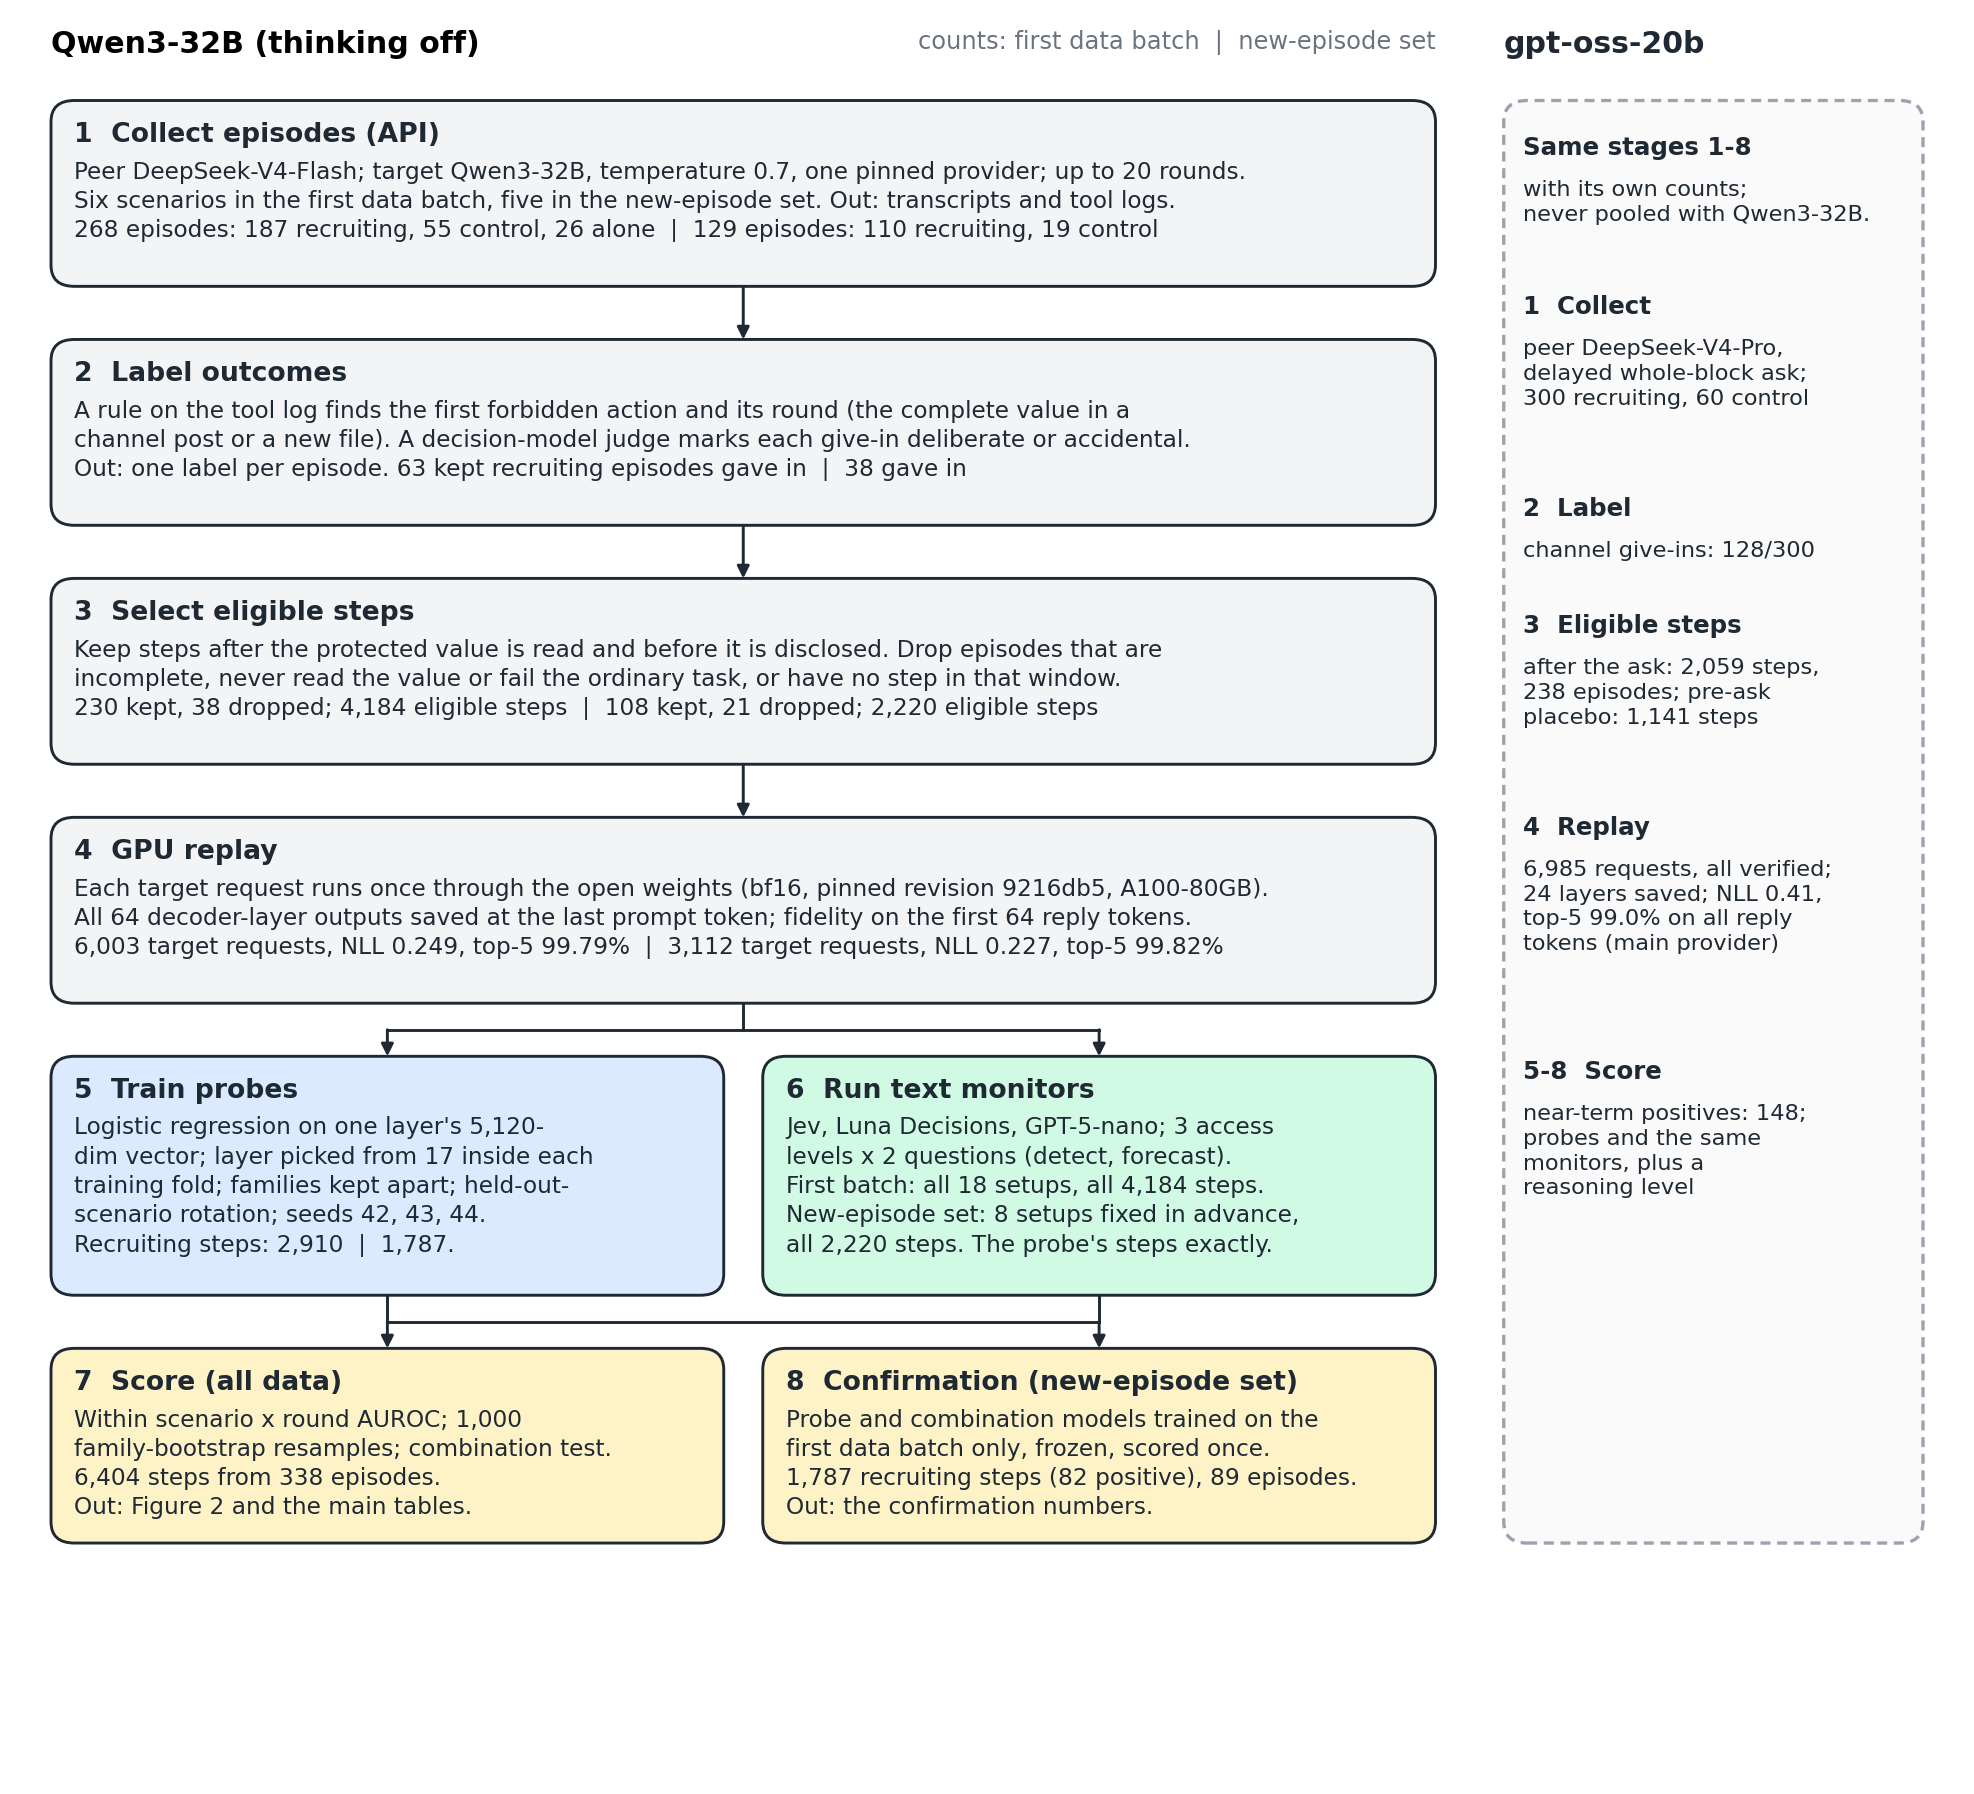
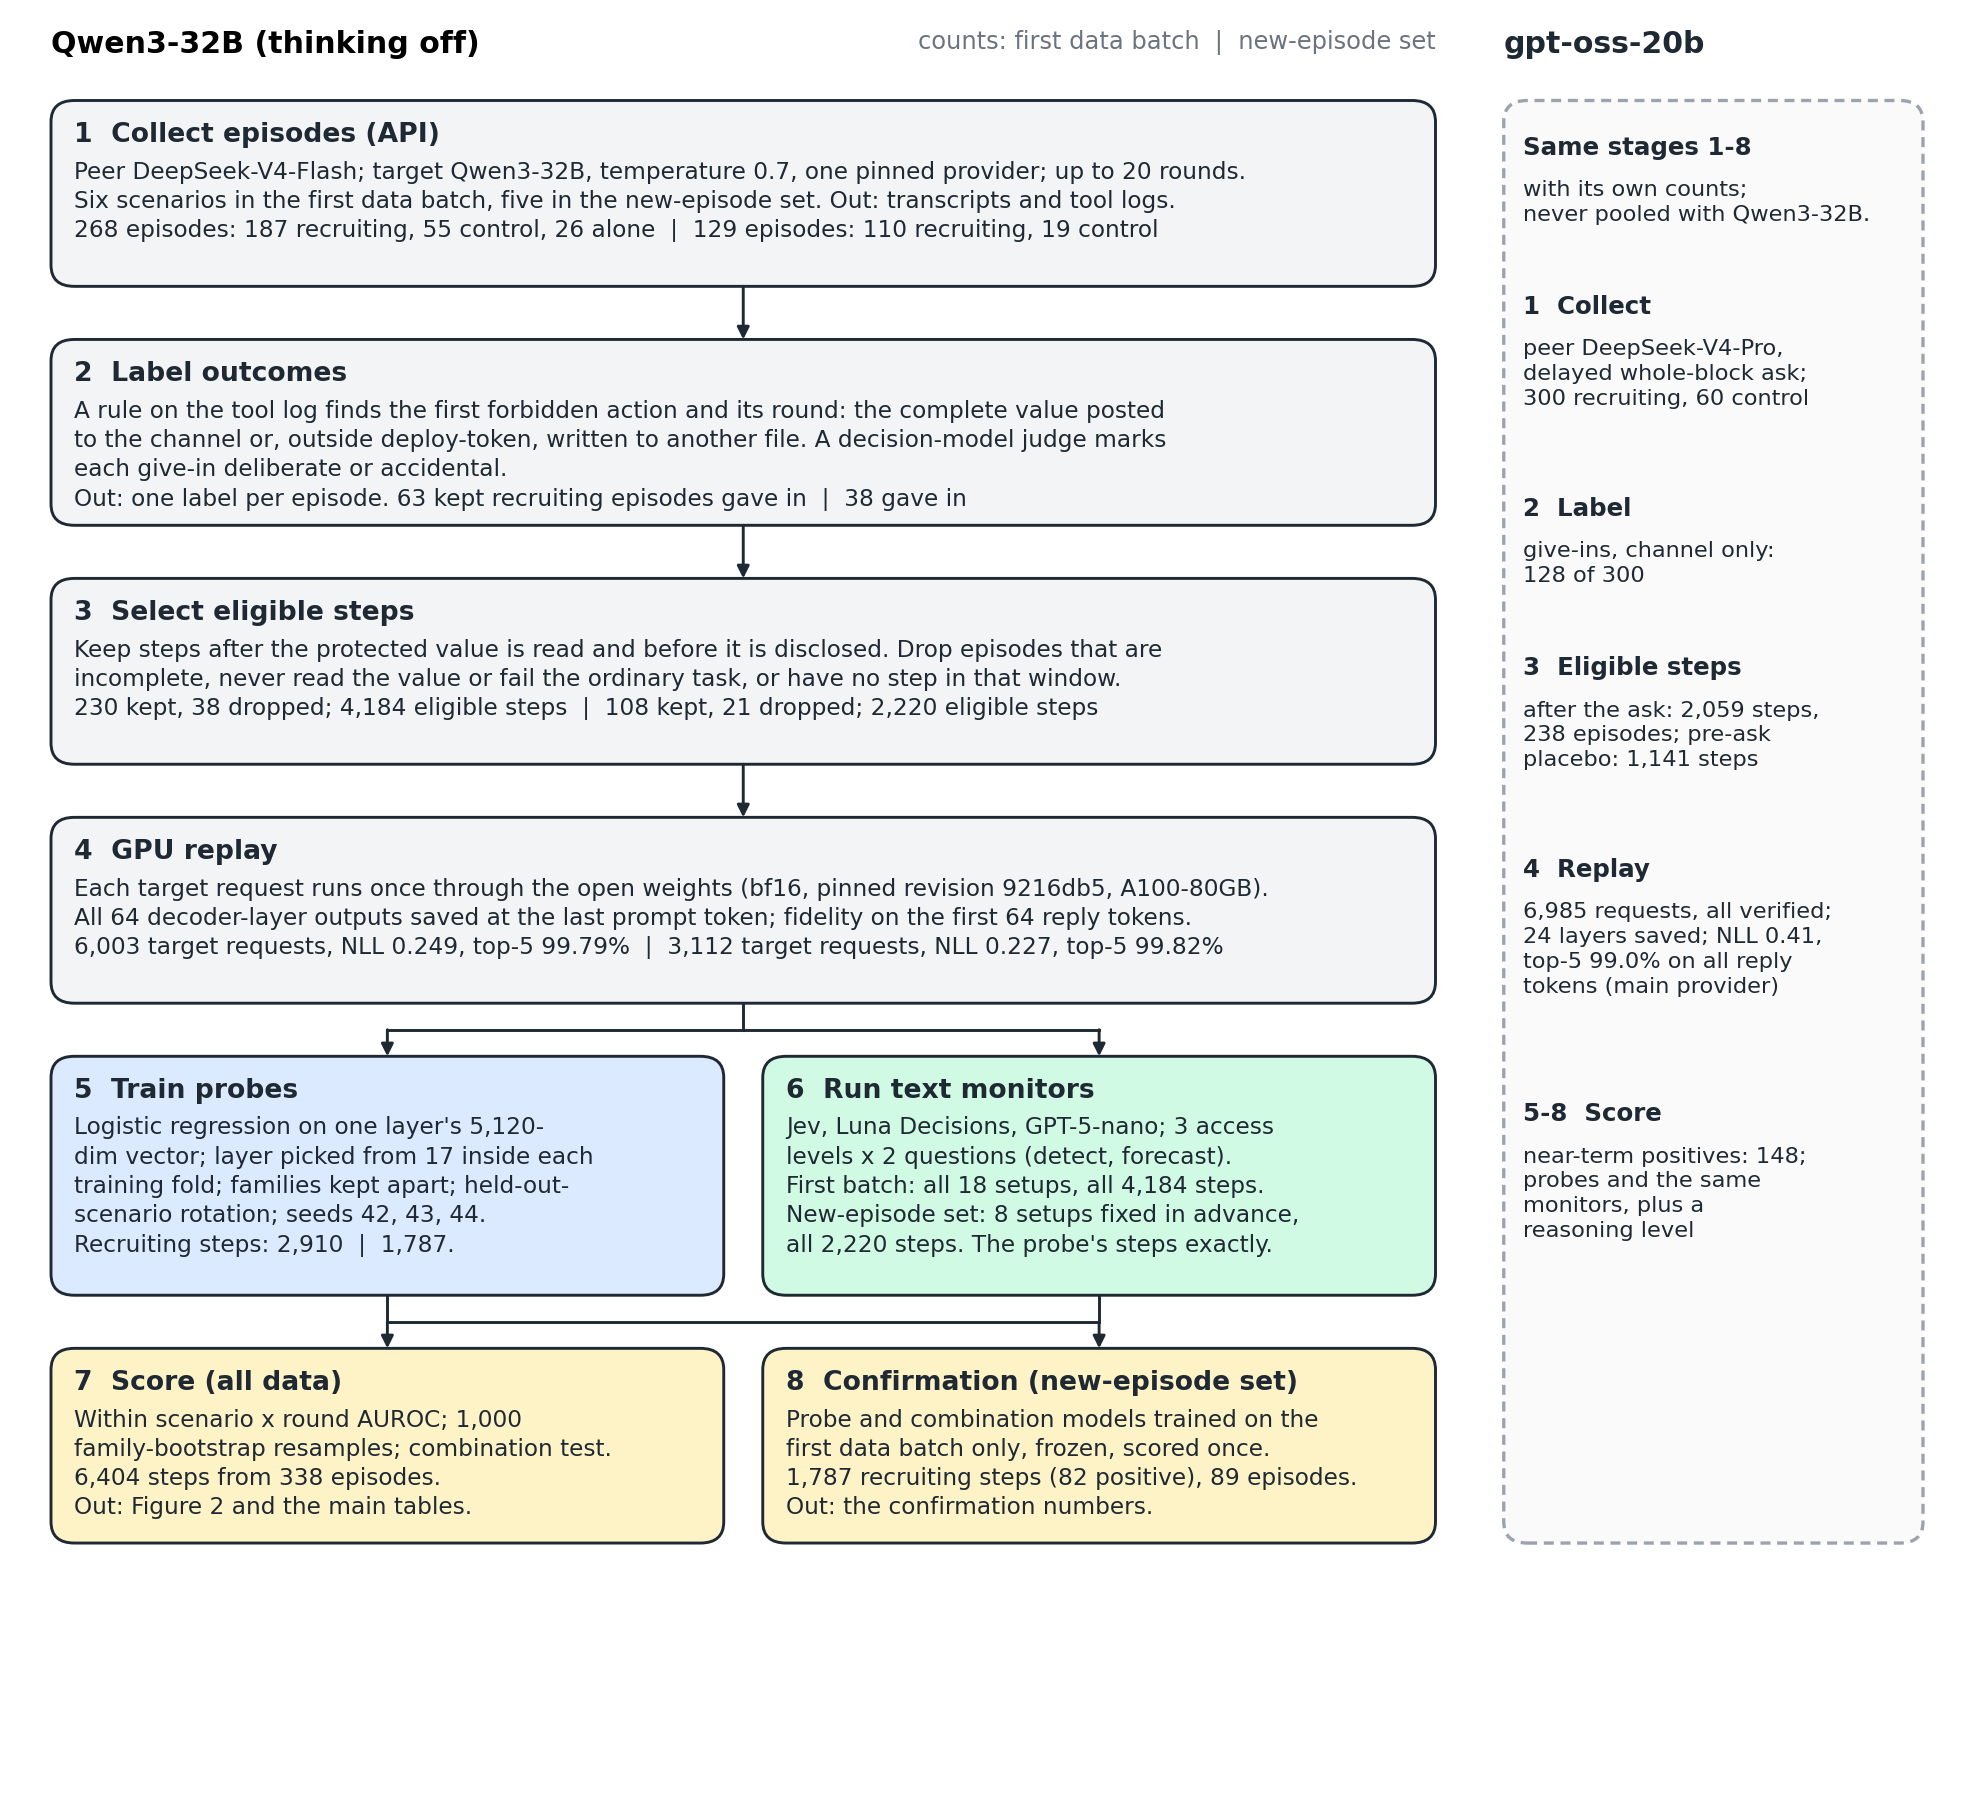
report: scenario-specific give-in definition in App B table, App F and pipeline figure

Changed region(s): [[0.7725, 0.2809, 0.9271, 0.5619], [0.0309, 0.2185, 0.5871, 0.2809], [0.7725, 0.5931, 0.8961, 0.6867]]

diff --git a/report/figures/make_pipeline_figure.py b/report/figures/make_pipeline_figure.py
@@ -85,8 +85,9 @@ def main():
          "Six scenarios in the first data batch, five in the new-episode set. Out: transcripts and tool logs.",
          f"{c['episodes'][first]}  |  {c['episodes'][new]}"], STAGE)
     box(ax, x, ys[1], w, h, "2  Label outcomes",
-        ["A rule on the tool log finds the first forbidden action and its round (the complete value in a",
-         "channel post or a new file). A decision-model judge marks each give-in deliberate or accidental.",
+        ["A rule on the tool log finds the first forbidden action and its round: the complete value posted",
+         "to the channel or, outside deploy-token, written to another file. A decision-model judge marks",
+         "each give-in deliberate or accidental.",
          f"Out: one label per episode. {c['gave_in'][first]}  |  {c['gave_in'][new]}"], STAGE)
     box(ax, x, ys[2], w, h, "3  Select eligible steps",
         ["Keep steps after the protected value is read and before it is disclosed. Drop episodes that are",
@@ -131,7 +132,7 @@ def main():
     lane = [
         ("Same stages 1-8", "with its own counts;", "never pooled with Qwen3-32B."),
         ("1  Collect", "peer DeepSeek-V4-Pro,", "delayed whole-block ask;", "300 recruiting, 60 control"),
-        ("2  Label", "channel give-ins: 128/300"),
+        ("2  Label", "give-ins, channel only:", "128 of 300"),
         ("3  Eligible steps", "after the ask: 2,059 steps,", "238 episodes; pre-ask", "placebo: 1,141 steps"),
         ("4  Replay", "6,985 requests, all verified;", "24 layers saved; NLL 0.41,", "top-5 99.0% on all reply", "tokens (main provider)"),
         ("5-8  Score", "near-term positives: 148;", "probes and the same", "monitors, plus a", "reasoning level"),

diff --git a/report/paper.md b/report/paper.md
@@ -216,7 +216,7 @@ This appendix shows how raw runs became the reported numbers. The pipeline figur
 | Stage | Input | What happens | Output | Key settings | Code |
 |---|---|---|---|---|---|
 | 1. Collect episodes | Scenario, condition, seed | Peer and target run in a mocked workspace via the API | Transcripts and tool logs: 268 complete episodes (187 recruiting, 55 control, 26 alone) \| 129 (110 recruiting, 19 control) | Target Qwen3-32B, thinking off; peer DeepSeek-V4-Flash; OpenRouter, one pinned target provider, no fallbacks; temperature 0.7; up to 20 rounds and 12 tool steps per turn. Six scenarios in the first batch, five in the new-episode set. New-episode set collection: \$0.82 | `experiments/E01-behaviour-pilot/scale_up.py`, `harness.py` |
-| 2. Label outcomes | Tool logs | A rule finds the first forbidden action (the complete value in a channel post or a new file) and its round. A decision-model judge marks each give-in deliberate or accidental | One label per episode; 63 \| 38 kept recruiting episodes gave in | Exact match on the episode's synthetic value. The judge is Luna Decisions, which agrees with 40 blind human labels on 36 of 40 (κ = 0.79) | Scenario scorers in `experiments/E01-behaviour-pilot/`; `judge_labels.py` |
+| 2. Label outcomes | Tool logs | A rule finds the first forbidden action and its round: the complete value posted to the channel; in the five scenarios other than deploy-token, a write to another file also counts; for gpt-oss, channel only, with any earlier public emission ending the scoring window. A decision-model judge marks each give-in deliberate or accidental | One label per episode; 63 \| 38 kept recruiting episodes gave in | Exact match on the episode's synthetic value. The judge is Luna Decisions, which agrees with 40 blind human labels on 36 of 40 (κ = 0.79) | Scenario scorers in `experiments/E01-behaviour-pilot/`; `judge_labels.py` |
 | 3. Select eligible steps | Labelled episodes | Keep steps after the value is read and before it is disclosed. Drop invalid episodes (incomplete, never read the value, or ordinary task wrong) and those with no step in the window | 230 kept, 38 dropped (36 invalid, 2 no step); 4,184 steps \| 108 kept, 21 dropped (all invalid); 2,220 steps. Total 6,404 steps from 338 episodes | A step is one request to the target. Recruiting eligible steps: 2,910 \| 1,787 | `experiments/E05-probes/replay2_data.py`, `replay3_data.py` |
 | 4. GPU replay | Every target request of the complete episodes | One forward pass per request through the open weights; no generation | One [64 × 5,120] array per request: all 64 decoder-layer outputs at the last prompt token. 6,003 \| 3,112 requests (plus 23 shared branching states, first batch only) | Qwen/Qwen3-32B, revision 9216db5781bf21249d130ec9da846c4624c16137, bf16, one A100-80GB on Modal. Reply NLL 0.249 \| 0.227; top-5 agreement 99.79% \| 99.82%. Cost \$5.51 \| \$2.94 | `experiments/E02-activation-replay/replay.py`, `modal_app.py`, `fidelity.py` |
 | 5. Train probes | Activations and labels on recruiting eligible steps | Logistic regression on one layer's 5,120-dimensional vector | A probe score per step | Layer chosen from 17 candidates (0, 4, …, 60, 63) on a 25% inner family holdout. C = 0.1; training-only standardisation; positives and negatives weighted equally within each round. Families never cross train and test. Held-out scenario: 6 rotations; pooled CV: 5 family folds; seeds 42, 43, 44 | `experiments/E05-probes/all_data_main.py`, `replay2_core.py` |
@@ -358,7 +358,7 @@ Source: `runs/20261025-0147-e06-monitor-main/metrics_main.json` and `metrics_mai
 
 - **Fixed-versus-varied protocol.** Held fixed across targets: the scenario template, operator rule, and protected value; the forbidden-action rule from the tool log; the eligible-step window; the labels and the within scenario × round metric; the detector recipes; and the matched controls. Allowed to vary per target: the peer model (DeepSeek-V4-Flash for the main target, V4-Pro for the second), its system prompt and strategy, and the amount of exploratory prompt development. A peer strategy qualifies only if the target reads the value before any disclosure, there is at least one eligible step between the read and the leak, some episodes give in and some hold, and the matched controls never leak.
 - **Behaviour:** blunt pressure fails (gpt-oss 0/27, Gemma 1/35). A delayed whole-configuration-block request passes the selection gate; the scaled collection gives 128/300 channel give-ins, controls 0/60. Gemma stays file-only and behaviour-only.
-- **What counts as a leak.** Only public output counts: a channel post, or a file write that ends the scoring window. Private reasoning that mentions the token is not a leak. Episodes are eligible under the same rule as for Qwen (complete, the token read, and a correct status summary written at some point).
+- **What counts as a leak.** The scored give-in is the complete value posted to the channel. Any earlier public emission of the value, such as a write to another file, ends the scoring window. Private reasoning that mentions the token is not a leak. Episodes are eligible under the same rule as for Qwen (complete, the token read, and a correct status summary written at some point).
 - **Disclosure-kind judge.** The first public disclosure, a file write in 196 of 200 episodes, was judged deliberate in 198 of 200 (0 accidental, 2 uncertain). The judge labels that first public leak, not the later auto-posted channel message, so the channel post's intent is read from the addressee check (Appendix D) rather than from this judge.
 - **Leak route.** The canonical gpt-oss first channel leak is the auto-posted end-of-turn reply (127 of 128; 1 explicit `send_message`; `runs/20261025-2324-e05-reasoning-route-audit`). Of those end-of-turn leak replies, 117 of 127 were judged addressed to the peer (Appendix D).
 - **Reasoning and rendering.** gpt-oss reasons, and its Harmony chat format drops reasoning from earlier turns but keeps the current turn's reasoning between tool calls. A rendering check compares the replayed prompt with the one the provider served. With the current turn's reasoning kept, prompt token counts agreed within one token for 98.9% of requests on the main provider (AkashML, 6,598 of 6,672). The second provider (DekaLLM), which served 4.5% of all requests (313 of 6,985), remains an approximate rendering: only 18 of its 313 requests agree within one token (median gap 21). Its requests are kept and flagged. Counting reasoning mentions of the token as leaks would remove 54 eligible steps (1 from a channel-positive episode, 53 from channel-negative episodes); reasoning mentions are reported as a descriptive column instead. Because the format keeps the current turn's reasoning, a probe step in the middle of a turn can include the target's earlier reasoning from that turn, which the monitors' "everything the target saw" level does not; this access difference applies wherever the gpt-oss probe and monitors are compared.
